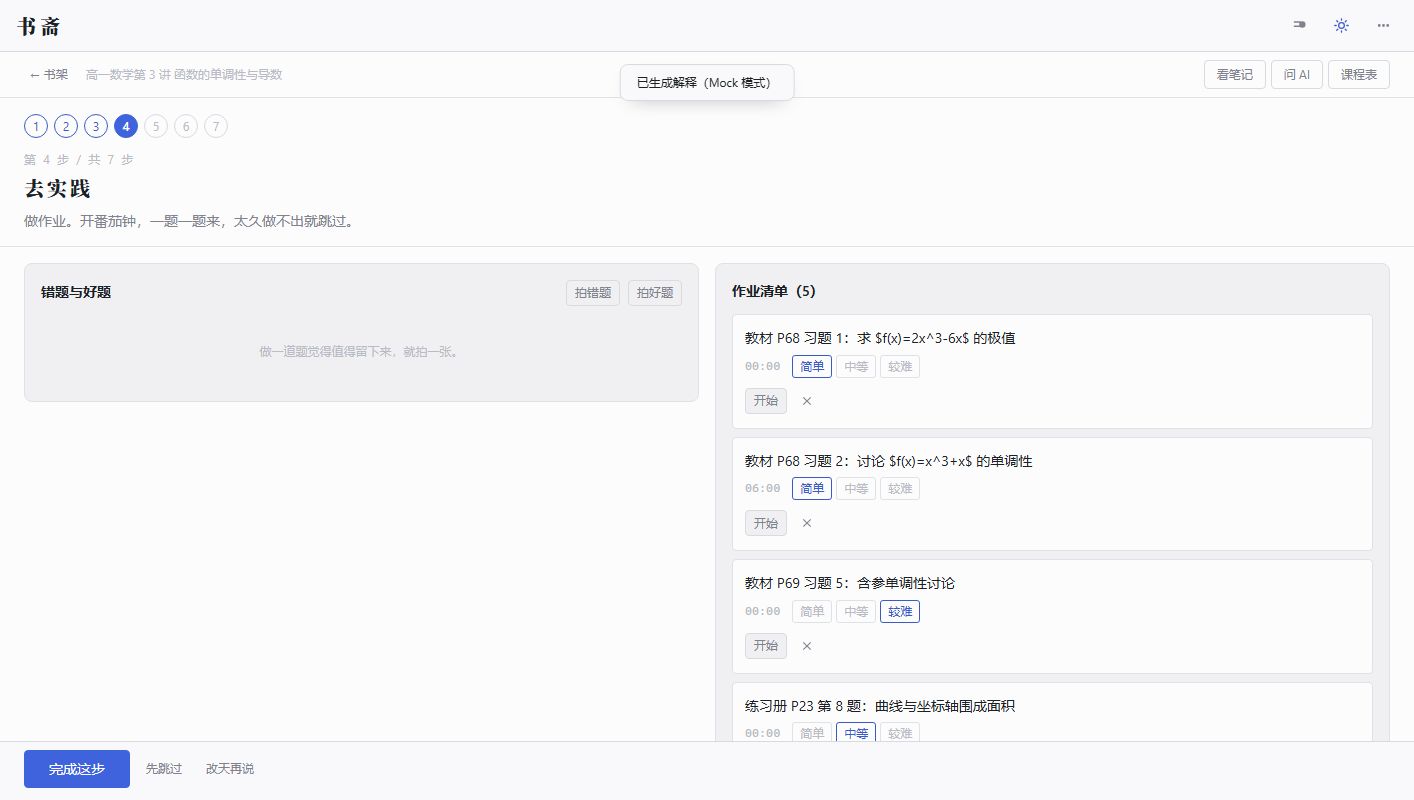
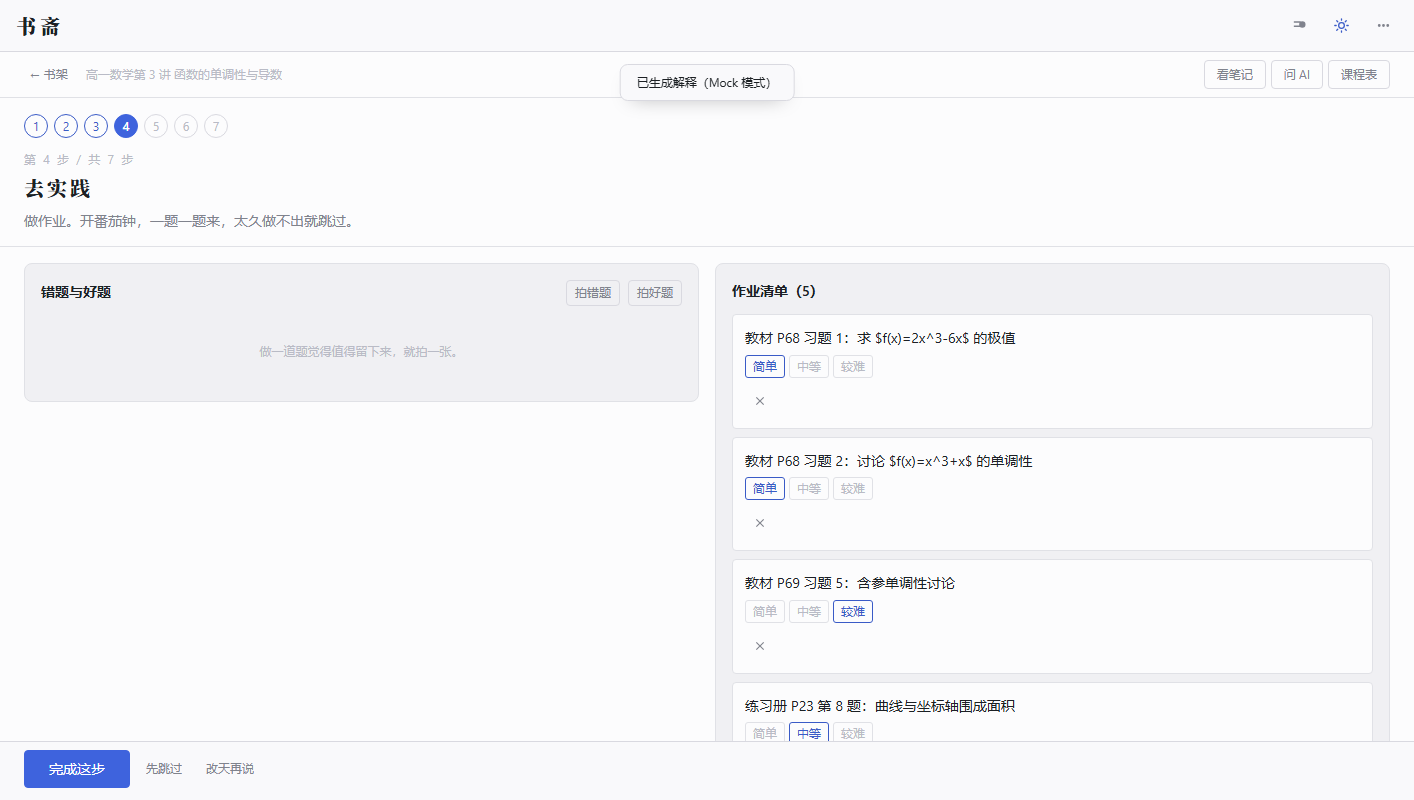
style: 任务行改为横向布局，操作按钮靠右

diff --git a/app/src/styles/global.css b/app/src/styles/global.css
@@ -1265,6 +1265,13 @@ code {
   border-radius: var(--r-sm);
   padding: var(--sp-3);
   background: var(--app);
+  display: flex;
+  align-items: flex-start;
+  gap: var(--sp-3);
+}
+.task__main {
+  flex: 1;
+  min-width: 0;
 }
 .task.is-running {
   border-color: var(--accent);
